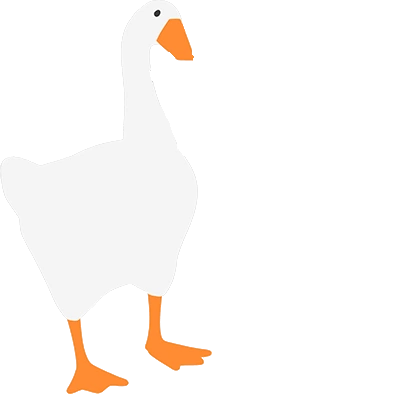
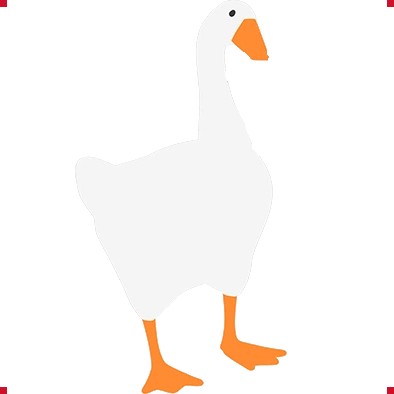
Added Game Demo

diff --git a/PillBox/demo/helloworld.cpp b/PillBox/demo/helloworld.cpp
@@ -36,36 +36,44 @@ int main(int argc, const char* argv[]) {
     */
     std::cout << "done loading\n";
 
-    
-    
-    /* //Attempt 1
-    EntityID test = e.ecs.UnusedEntity();
-    e.scripts.LoadScript("test.lua", "scripts");
-    e.ecs.Get<Script>(test) = Script{ "test.lua" };
-    */
+    EntityID goose = e.ecs.UnusedEntity();
+    EntityID N0 = e.ecs.UnusedEntity();
+    EntityID O = e.ecs.UnusedEntity();
+    EntityID C = e.ecs.UnusedEntity();
+    EntityID A = e.ecs.UnusedEntity();
+    EntityID N1 = e.ecs.UnusedEntity();
+    EntityID E = e.ecs.UnusedEntity();
+    EntityID QM = e.ecs.UnusedEntity();
+    EntityID corner1 = e.ecs.UnusedEntity();
+    EntityID corner2 = e.ecs.UnusedEntity();
+    //For Initiating images, sound
+    EntityID init = e.ecs.UnusedEntity();
+    string p = "scripts/init.lua";
+    auto initLoad = e.scripts.lua.load_file(e.resources.getPath(p).c_str());
+    initLoad(goose, N0, O, C, A, N1, E, QM,  corner1, corner2); //run init
 
-    /*  //Attempt 2
-    e.scripts.LoadScript("test.lua", "scripts");
-    e.scripts.RunScript("test.lua");
-    */
+    EntityID Sounds = e.ecs.UnusedEntity();
+    e.scripts.LoadScript("soundscript.lua", "scripts");
+    e.ecs.Get<Script>(Sounds) = Script{ "soundscript.lua" };
 
-    //Attempt 3
-    EntityID test = e.ecs.UnusedEntity();
     e.scripts.LoadScript("test.lua", "scripts");
-    e.scripts.RunScript("test.lua", test);
+    e.ecs.Get<Script>(goose) = Script{ "test.lua" };
+
+    e.scripts.LoadScript("cube.lua", "scripts");
+    e.ecs.Get<Script>(N0) = Script{ "cube.lua" };
+    e.ecs.Get<Script>(O) = Script{ "cube.lua" };
+    e.ecs.Get<Script>(C) = Script{ "cube.lua" };
+    e.ecs.Get<Script>(A) = Script{ "cube.lua" };
+    e.ecs.Get<Script>(N1) = Script{ "cube.lua" };
+    e.ecs.Get<Script>(E) = Script{ "cube.lua" };
+    e.ecs.Get<Script>(QM) = Script{ "cube.lua" };
+    //  e.ecs.Get<Script>(O) = Script{ "cube.lua" };
  
+
+    
+
     e.RunGameLoop([&]() {
         
-        /*
-        if (e.input.GetKeyCodeUp(GLFW_KEY_Q))
-        {
-            std::cout << "Quack!\n";
-            e.sounds.PlaySound("quack.wav");
-        }
-
-        
-        */
-
         e.graphics.Draw();
         return;
 

diff --git a/PillBox/src/ScriptManager.cpp b/PillBox/src/ScriptManager.cpp
@@ -86,11 +86,22 @@ void ScriptManager::StartUp()
 		"scale", &Transform::scale
 		);
 
+	lua.new_usertype<Trigger>("Trigger",
+		sol::constructors<Trigger()>(),
+		"tl", &Trigger::tl,
+		"br", &Trigger::br
+		);
+
+	lua.new_usertype<Target>("Trigger",
+		sol::constructors<Trigger()>(),
+		"target", &Target::target
+		);
+
 	//ECS Getters
-	lua.set_function("GetSprite", [&](const EntityID id) { return engine.ecs.Get<Sprite>(id); });
-	lua.set_function("GetTransform", [&](const EntityID id) { return engine.ecs.Get<Transform>(id); });
-
-
+	lua.set_function("GetSprite", [&](EntityID e) -> Sprite& { return engine.ecs.Get<Sprite>(e); });
+	lua.set_function("GetTransform", [&](const EntityID id) -> Transform& { return engine.ecs.Get<Transform>(id); });
+	lua.set_function("GetTrigger", [&](const EntityID id) -> Trigger& { return engine.ecs.Get<Trigger>(id); });
+	lua.set_function("GetTarget", [&](const EntityID id) -> Target& { return engine.ecs.Get<Target>(id); });
 
 }
 
@@ -112,7 +123,7 @@ bool ScriptManager::RunScript(const string& name, EntityID id)
 {
 	if (scripts.count(name) == 1)
 	{
-		scripts[name](id);
+		scripts[name](id);	
 		return true;
 	}
 	return false;
@@ -124,7 +135,8 @@ void ScriptManager::Update()
 	engine.ecs.ForEach<Script>([&](EntityID e)
 		{
 			Script s = engine.ecs.Get<Script>(e);
-			//scripts[s.name](); //run script
+
+			scripts[s.name](e); //run script
 
 		});
 	

diff --git a/PillBox/src/GraphicsManager.cpp b/PillBox/src/GraphicsManager.cpp
@@ -44,10 +44,10 @@ void GraphicsManager::StartUp()
     // A vertex buffer containing a textured square.
     const float vertices[] = {
         // positions      // texcoords
-        -1.0f,  -1.0f,    0.0f,  0.0f,
-         1.0f,  -1.0f,    1.0f,  0.0f,
-        -1.0f,   1.0f,    0.0f,  1.0f,
-         1.0f,   1.0f,    1.0f,  1.0f,
+        -1.0f,  -1.0f,    0.0f,  1.0f,
+         1.0f,  -1.0f,    1.0f,  1.0f,
+        -1.0f,   1.0f,    0.0f,  0.0f,
+         1.0f,   1.0f,    1.0f,  0.0f,
     };
 
 
@@ -190,7 +190,7 @@ void GraphicsManager::Draw()
             //uniforms.transform = mat4{1};
             //uniforms.transform = translate( mat4{1}, vec3( position, z ) );
             //uniforms.transform *= glm::scale( mat4{1}, vec3( scale ) );
-            uniforms.transform = translate(mat4{ 1 }, vec3(position, z)) * glm::scale(mat4{ 1 }, vec3(scale.x, -scale.y, scale.z));//scale ) ); 
+            uniforms.transform = translate(mat4{ 1 }, vec3(position, z)) * glm::scale(mat4{ 1 }, vec3(scale.x, scale.y, scale.z));//scale ) ); 
 
 
             if (image_width < image_height) {

diff --git a/PillBox/src/Types.h b/PillBox/src/Types.h
@@ -43,13 +43,9 @@ namespace Pillbox
 
     
     struct Transform { vec3 position; vec3 rotation; vec3 scale; };
-    struct Sprite
-    {
-        std::string name; double z; 
-        
-    
-    };
-    
+    struct Sprite { std::string name; double z; };
+    struct Trigger { vec3 tl; vec3 br; };
+    struct Target { Transform target; };
     //struct Velocity { real x, y; }; // or: struct Velocity : public vec2 {};
     //struct Gravity { real meters_per_second; };
     ///struct Sprite { string image; real size; };

diff --git a/PillBox/src/Engine.cpp b/PillBox/src/Engine.cpp
@@ -12,6 +12,7 @@ void Engine::StartUp()
 	input.StartUp();
 	resources.StartUp();
 	sounds.StartUp();
+	scripts.StartUp();
 }
 
 void Engine::ShutDown()
@@ -20,6 +21,7 @@ void Engine::ShutDown()
 	input.ShutDown();
 	resources.ShutDown();
 	sounds.ShutDown();
+	//scripts.ShutDown();
 }
 
 

diff --git a/PillBox/src/ScriptManager.h b/PillBox/src/ScriptManager.h
@@ -17,8 +17,9 @@ namespace Pillbox
 		//bool RunScript(const string& name);
 		bool RunScript(const string& name, EntityID id);
 		void Update();
-	private:
 		sol::state lua;
+	private:
+		
 		std::unordered_map< string, sol::load_result > scripts;
 	};
 }
